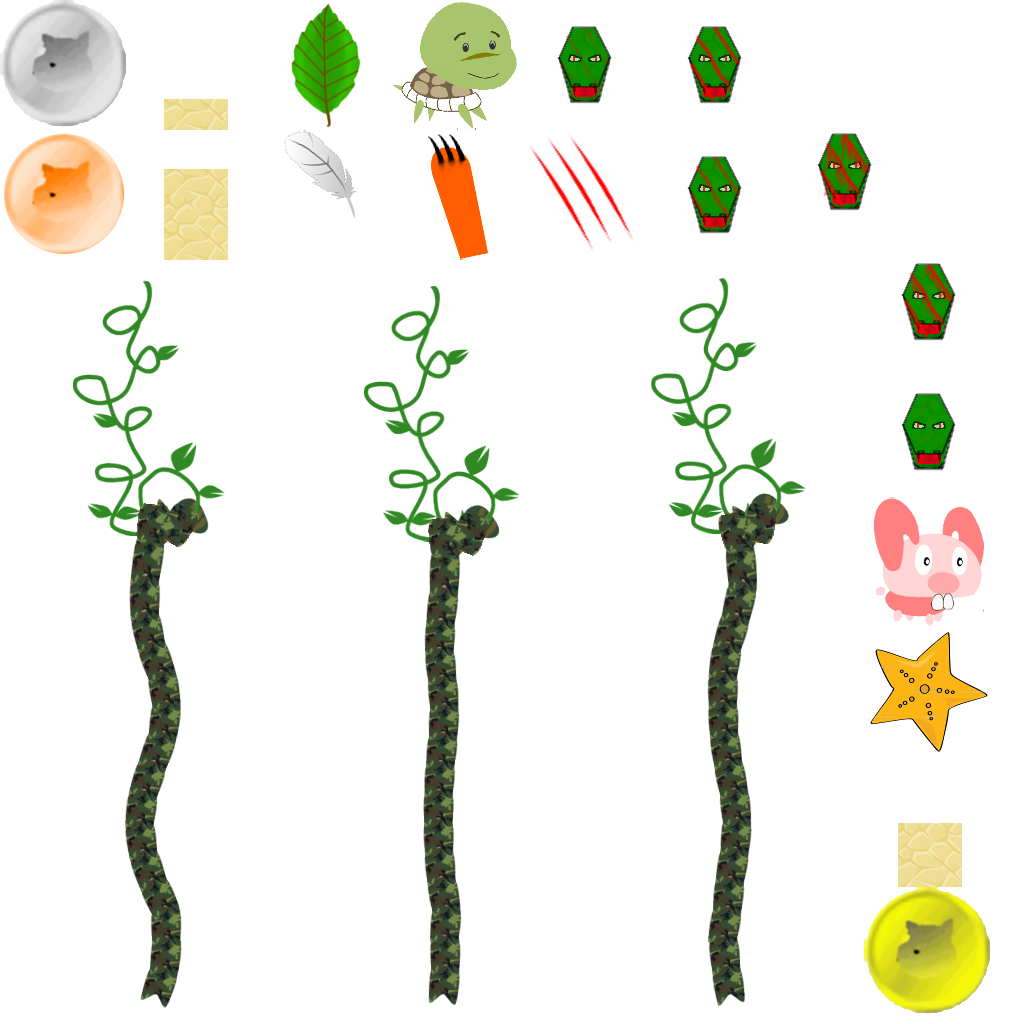
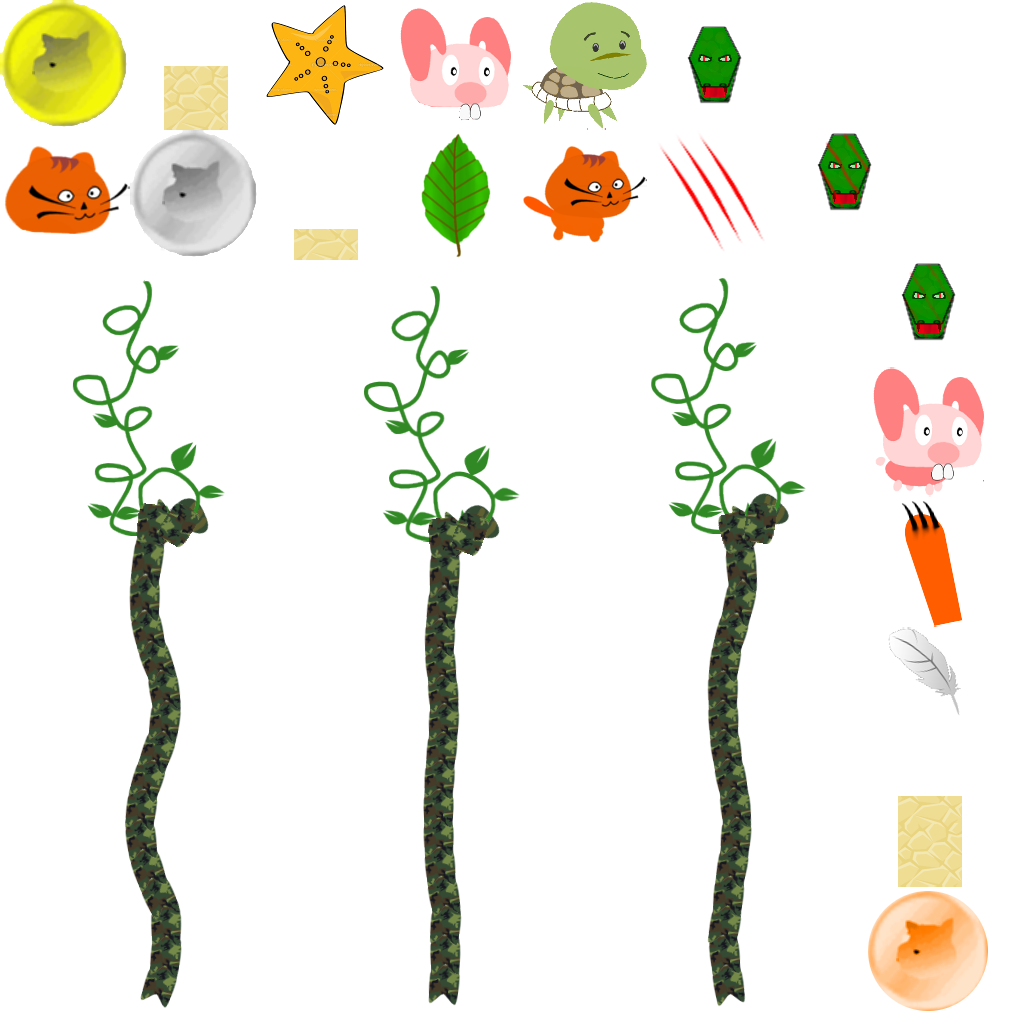
version fonctionnelle sans le changement de difficulté du boss

diff --git a/trunk/rollingcat/src/fr/lirmm/smile/rollingcat/screen/BossScreen.java b/trunk/rollingcat/src/fr/lirmm/smile/rollingcat/screen/BossScreen.java
@@ -102,7 +102,7 @@ public class BossScreen implements Screen {
 	private Label pauseText, endText;
 	private Track track;
 	private HashMap<Integer, float []> map;
-	private Texture gui;
+	private Texture gui, background;
 	private Image slash, water, leaf, leaf2;
 	private Vector2[] lighting;
 	private float animationTimer, frame;
@@ -142,6 +142,7 @@ public class BossScreen implements Screen {
 		}
 
 		batch.begin();
+		batch.draw(background, 0, 0, GameConstants.DISPLAY_WIDTH, GameConstants.DISPLAY_HEIGHT);
 		batch.draw(gui, 0, 0, GameConstants.DISPLAY_WIDTH, GameConstants.DISPLAY_HEIGHT);
 		batch.end();
 		drawStandTime();
@@ -193,8 +194,8 @@ public class BossScreen implements Screen {
 			drawTask();
 		}
 		drawHearts();
-		batch.draw(player, GameConstants.BLOCK_WIDTH * 0.15f, GameConstants.BLOCK_HEIGHT * 0.4f, GameConstants.BLOCK_WIDTH, GameConstants.BLOCK_HEIGHT);
-		batch.draw(boss, GameConstants.DISPLAY_WIDTH - GameConstants.BLOCK_WIDTH * 1.15f, GameConstants.BLOCK_HEIGHT * 0.4f, GameConstants.BLOCK_WIDTH, GameConstants.BLOCK_HEIGHT);
+		batch.draw(player, GameConstants.BLOCK_WIDTH * 0.02f, GameConstants.BLOCK_HEIGHT * 0.08f, GameConstants.BLOCK_WIDTH * 1.3f, GameConstants.BLOCK_WIDTH * 1.3f);
+		batch.draw(boss, GameConstants.DISPLAY_WIDTH - GameConstants.BLOCK_WIDTH * 1.55f, GameConstants.BLOCK_HEIGHT * 0.0f, GameConstants.BLOCK_WIDTH * 2f, GameConstants.BLOCK_HEIGHT * 2f);
 		if(!paused & !done)
 			drawHeldItem();
 		batch.end();
@@ -234,25 +235,26 @@ public class BossScreen implements Screen {
 		endWindow.setWidth(GameConstants.DISPLAY_WIDTH * 0.5f);
 		endWindow.setHeight(GameConstants.DISPLAY_HEIGHT * 0.5f);
 
-		if((bossLife == 0 || playerLife == 0))
+		if((bossLife == 0 || playerLife == 0) & bossHeadActor.getActions().size == 0)
 		{
+			System.out.println("i am here");
 			bossHeadActor.addAction(
 					Actions.sequence(
 							Actions.delay(2),
-						new Action() {
-					
-					@Override
-					public boolean act(float delta) {
-						done = true;
-						endWindow.setVisible(true);
-						if(bossLife < playerLife)
-							endText.setText(localisation(_winboss));
-						else
-							endText.setText(localisation(_loseboss));
-						return true;
-					}
+							new Action() {
+
+								@Override
+								public boolean act(float delta) {
+									done = true;
+									endWindow.setVisible(true);
+									if(bossLife < playerLife)
+										endText.setText(localisation(_winboss));
+									else
+										endText.setText(localisation(_loseboss));
+									return true;
+								}
 							}));
-			
+
 		}
 
 		if(Gdx.input.isKeyPressed(Keys.SPACE))
@@ -321,6 +323,7 @@ public class BossScreen implements Screen {
 	public void show() {
 		EventManager.clear();
 		gui = new Texture("data/gui.png");
+		background = new Texture("data/backgroundboss.png");
 
 		map = new HashMap<Integer, float[]>();
 
@@ -471,8 +474,8 @@ public class BossScreen implements Screen {
 		halfHeart = new TextureRegion(GdxRessourcesGetter.getGameSkin().getRegion("halfheart"));
 		bossHead = new TextureRegion(GdxRessourcesGetter.getGameSkin().getRegion("shit"));
 
-		boss = new TextureRegion(GdxRessourcesGetter.getGameSkin().getRegion("shit"));
-		player = new TextureRegion(GdxRessourcesGetter.getGameSkin().getRegion("shit"));
+		boss = new TextureRegion(GdxRessourcesGetter.getGameSkin().getRegion("snake_fire0"));
+		player = new TextureRegion(GdxRessourcesGetter.getGameSkin().getRegion("turtlehead"));
 
 		table = new Table();
 		table.add(cat).pad(5);
@@ -521,14 +524,18 @@ public class BossScreen implements Screen {
 
 	private void parseTasks() {
 		tasks = new Array<Vector3>();
-		String [] tab = tasksAsString.split("/");
+		String [] tabOfTabs = tasksAsString.split("#");
+		String [] tab;
 
-		for (String s : tab) {
-			String [] coord = s.split(",");
-			int y = Integer.valueOf(coord[1]);
-			if(y < 2)
-				y = y+2;
-			tasks.add(new Vector3(Integer.valueOf(coord[0]), y, tasks.size));
+		for (String string : tabOfTabs) {
+			tab = string.split("/");
+			for (String s : tab) {
+				String [] coord = s.split(",");
+				int y = Integer.valueOf(coord[1]);
+				if(y < 2)
+					y = y+2;
+				tasks.add(new Vector3(Integer.valueOf(coord[0]), y, tasks.size));
+			}
 		}
 
 	}
@@ -678,27 +685,27 @@ public class BossScreen implements Screen {
 				if(!((bossLife == 0 || playerLife == 0)))
 				{
 					bossHeadActor.addAction(
-						Actions.sequence(
-								Actions.delay(0.8f),
-								Actions.moveTo(tasks.get(0).x * GameConstants.BLOCK_WIDTH, GameConstants.DISPLAY_HEIGHT),
-								new Action() {
+							Actions.sequence(
+									Actions.delay(0.8f),
+									Actions.moveTo(tasks.get(0).x * GameConstants.BLOCK_WIDTH, GameConstants.DISPLAY_HEIGHT),
+									new Action() {
 
-									@Override
-									public boolean act(float delta) {
-										setCurrentBossState();
-										return true;
-									}
-								},
-								Actions.moveTo(tasks.get(0).x * GameConstants.BLOCK_WIDTH, tasks.get(0).y * GameConstants.BLOCK_HEIGHT, 2, Interpolation.bounceOut),
-								new Action() {
+										@Override
+										public boolean act(float delta) {
+											setCurrentBossState();
+											return true;
+										}
+									},
+									Actions.moveTo(tasks.get(0).x * GameConstants.BLOCK_WIDTH, tasks.get(0).y * GameConstants.BLOCK_HEIGHT, 2, Interpolation.bounceOut),
+									new Action() {
 
-									@Override
-									public boolean act(float delta) {
-										standTime = 0;
-										dead = false;
-										return true;
-									}
-								}));
+										@Override
+										public boolean act(float delta) {
+											standTime = 0;
+											dead = false;
+											return true;
+										}
+									}));
 				}
 				else
 				{
@@ -711,7 +718,7 @@ public class BossScreen implements Screen {
 			}
 			else
 			{
-				done = true;
+				bossLife = 0;
 			}
 		}
 	}
@@ -724,12 +731,18 @@ public class BossScreen implements Screen {
 		switch (n) {
 		case 0:
 			currentBossState = BossState.FIRE;
+			boss.setRegion(GdxRessourcesGetter.getGameSkin().getRegion("snake_fire0"));
+			player.setRegion(GdxRessourcesGetter.getGameSkin().getRegion("turtlehead"));
 			break;
 		case 1:
 			currentBossState = BossState.MEAT;
+			boss.setRegion(GdxRessourcesGetter.getGameSkin().getRegion("snake"));
+			player.setRegion(GdxRessourcesGetter.getGameSkin().getRegion("cathead"));
 			break;
 		case 2:
 			currentBossState = BossState.ROCK;
+			boss.setRegion(GdxRessourcesGetter.getGameSkin().getRegion("snake_stone"));
+			player.setRegion(GdxRessourcesGetter.getGameSkin().getRegion("rabbithead"));
 			break;
 		}
 
@@ -853,20 +866,17 @@ public class BossScreen implements Screen {
 		slash.addAction(
 				Actions.sequence(
 						Actions.moveTo(tasks.get(0).x * GameConstants.BLOCK_WIDTH - GameConstants.BLOCK_WIDTH * 0.5f, tasks.get(0).y * GameConstants.BLOCK_HEIGHT - GameConstants.BLOCK_HEIGHT * 0.5f), 
+						Actions.show(),
+						Actions.delay(0.8f),
 						new Action() {
-
-							@Override
-							public boolean act(float delta) {
-								slash.setVisible(true);
-								return true;
-							}
-						}, Actions.delay(0.5f), Actions.hide(), new Action() {
 
 							@Override
 							public boolean act(float delta) {
 								dead = true;
 								return true;
-							}}));
+							}},
+							Actions.hide()
+						));
 	}
 
 	private void playWaterAnimation()
@@ -886,14 +896,17 @@ public class BossScreen implements Screen {
 						Actions.rotateTo(0),
 						Actions.moveTo(tasks.get(0).x * (GameConstants.BLOCK_WIDTH), tasks.get(0).y * GameConstants.BLOCK_HEIGHT + GameConstants.BLOCK_HEIGHT * 2), 
 						Actions.show(),
-						Actions.moveBy(0, -GameConstants.BLOCK_HEIGHT * 2, 0.4f), Actions.delay(0.1f), Actions.hide(), new Action() {
+						Actions.moveBy(0, -GameConstants.BLOCK_HEIGHT * 2, 0.4f),
+						Actions.delay(0.1f),
+						new Action() {
 
 							@Override
 							public boolean act(float delta) {
 								dead = true;
 								return true;
-							}
-						}));
+							}},
+							Actions.hide()
+						));
 	}
 
 	private void playLeafAnimation()
@@ -932,7 +945,7 @@ public class BossScreen implements Screen {
 								Actions.moveBy(0, -GameConstants.BLOCK_HEIGHT * 2, 0.3f, Interpolation.pow2Out),
 								Actions.rotateBy(10, 0.3f), Actions.moveBy(GameConstants.BLOCK_WIDTH * 0.5f, 0, 0.3f, Interpolation.pow2In)),
 								Actions.hide(),
-														Actions.delay(0.1f),
+								Actions.delay(0.1f),
 								new Action() {
 
 							@Override
